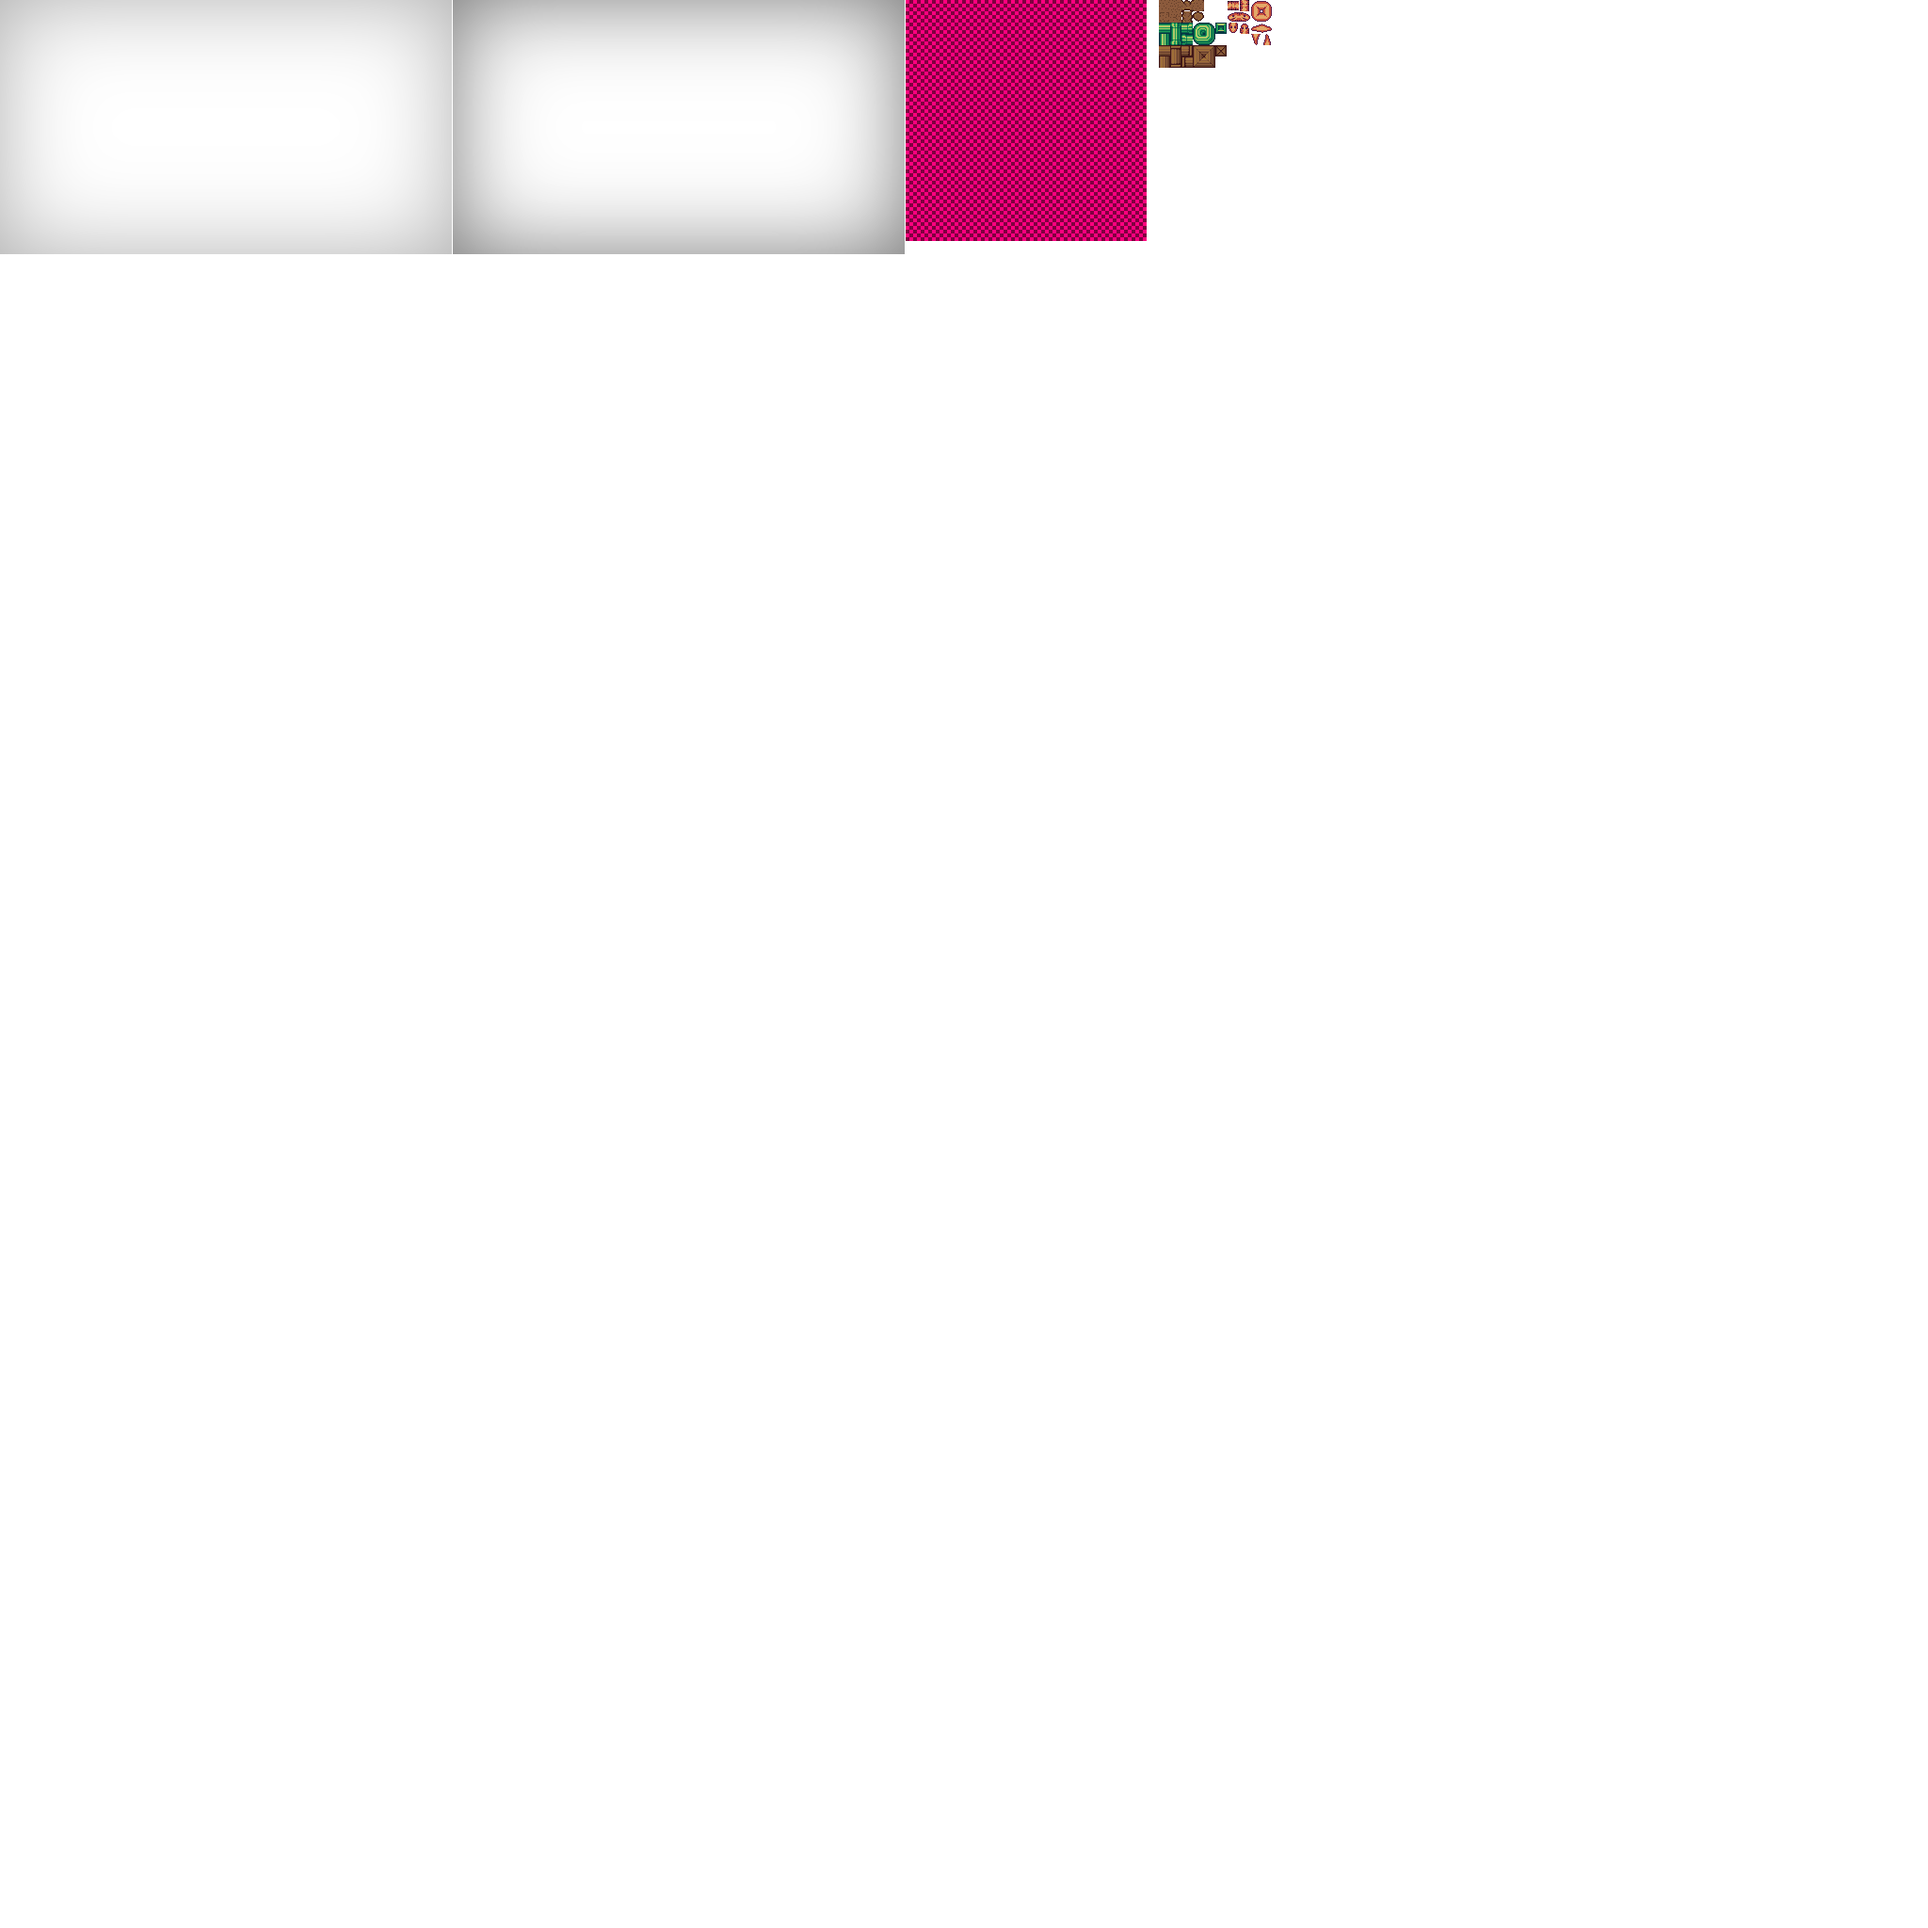
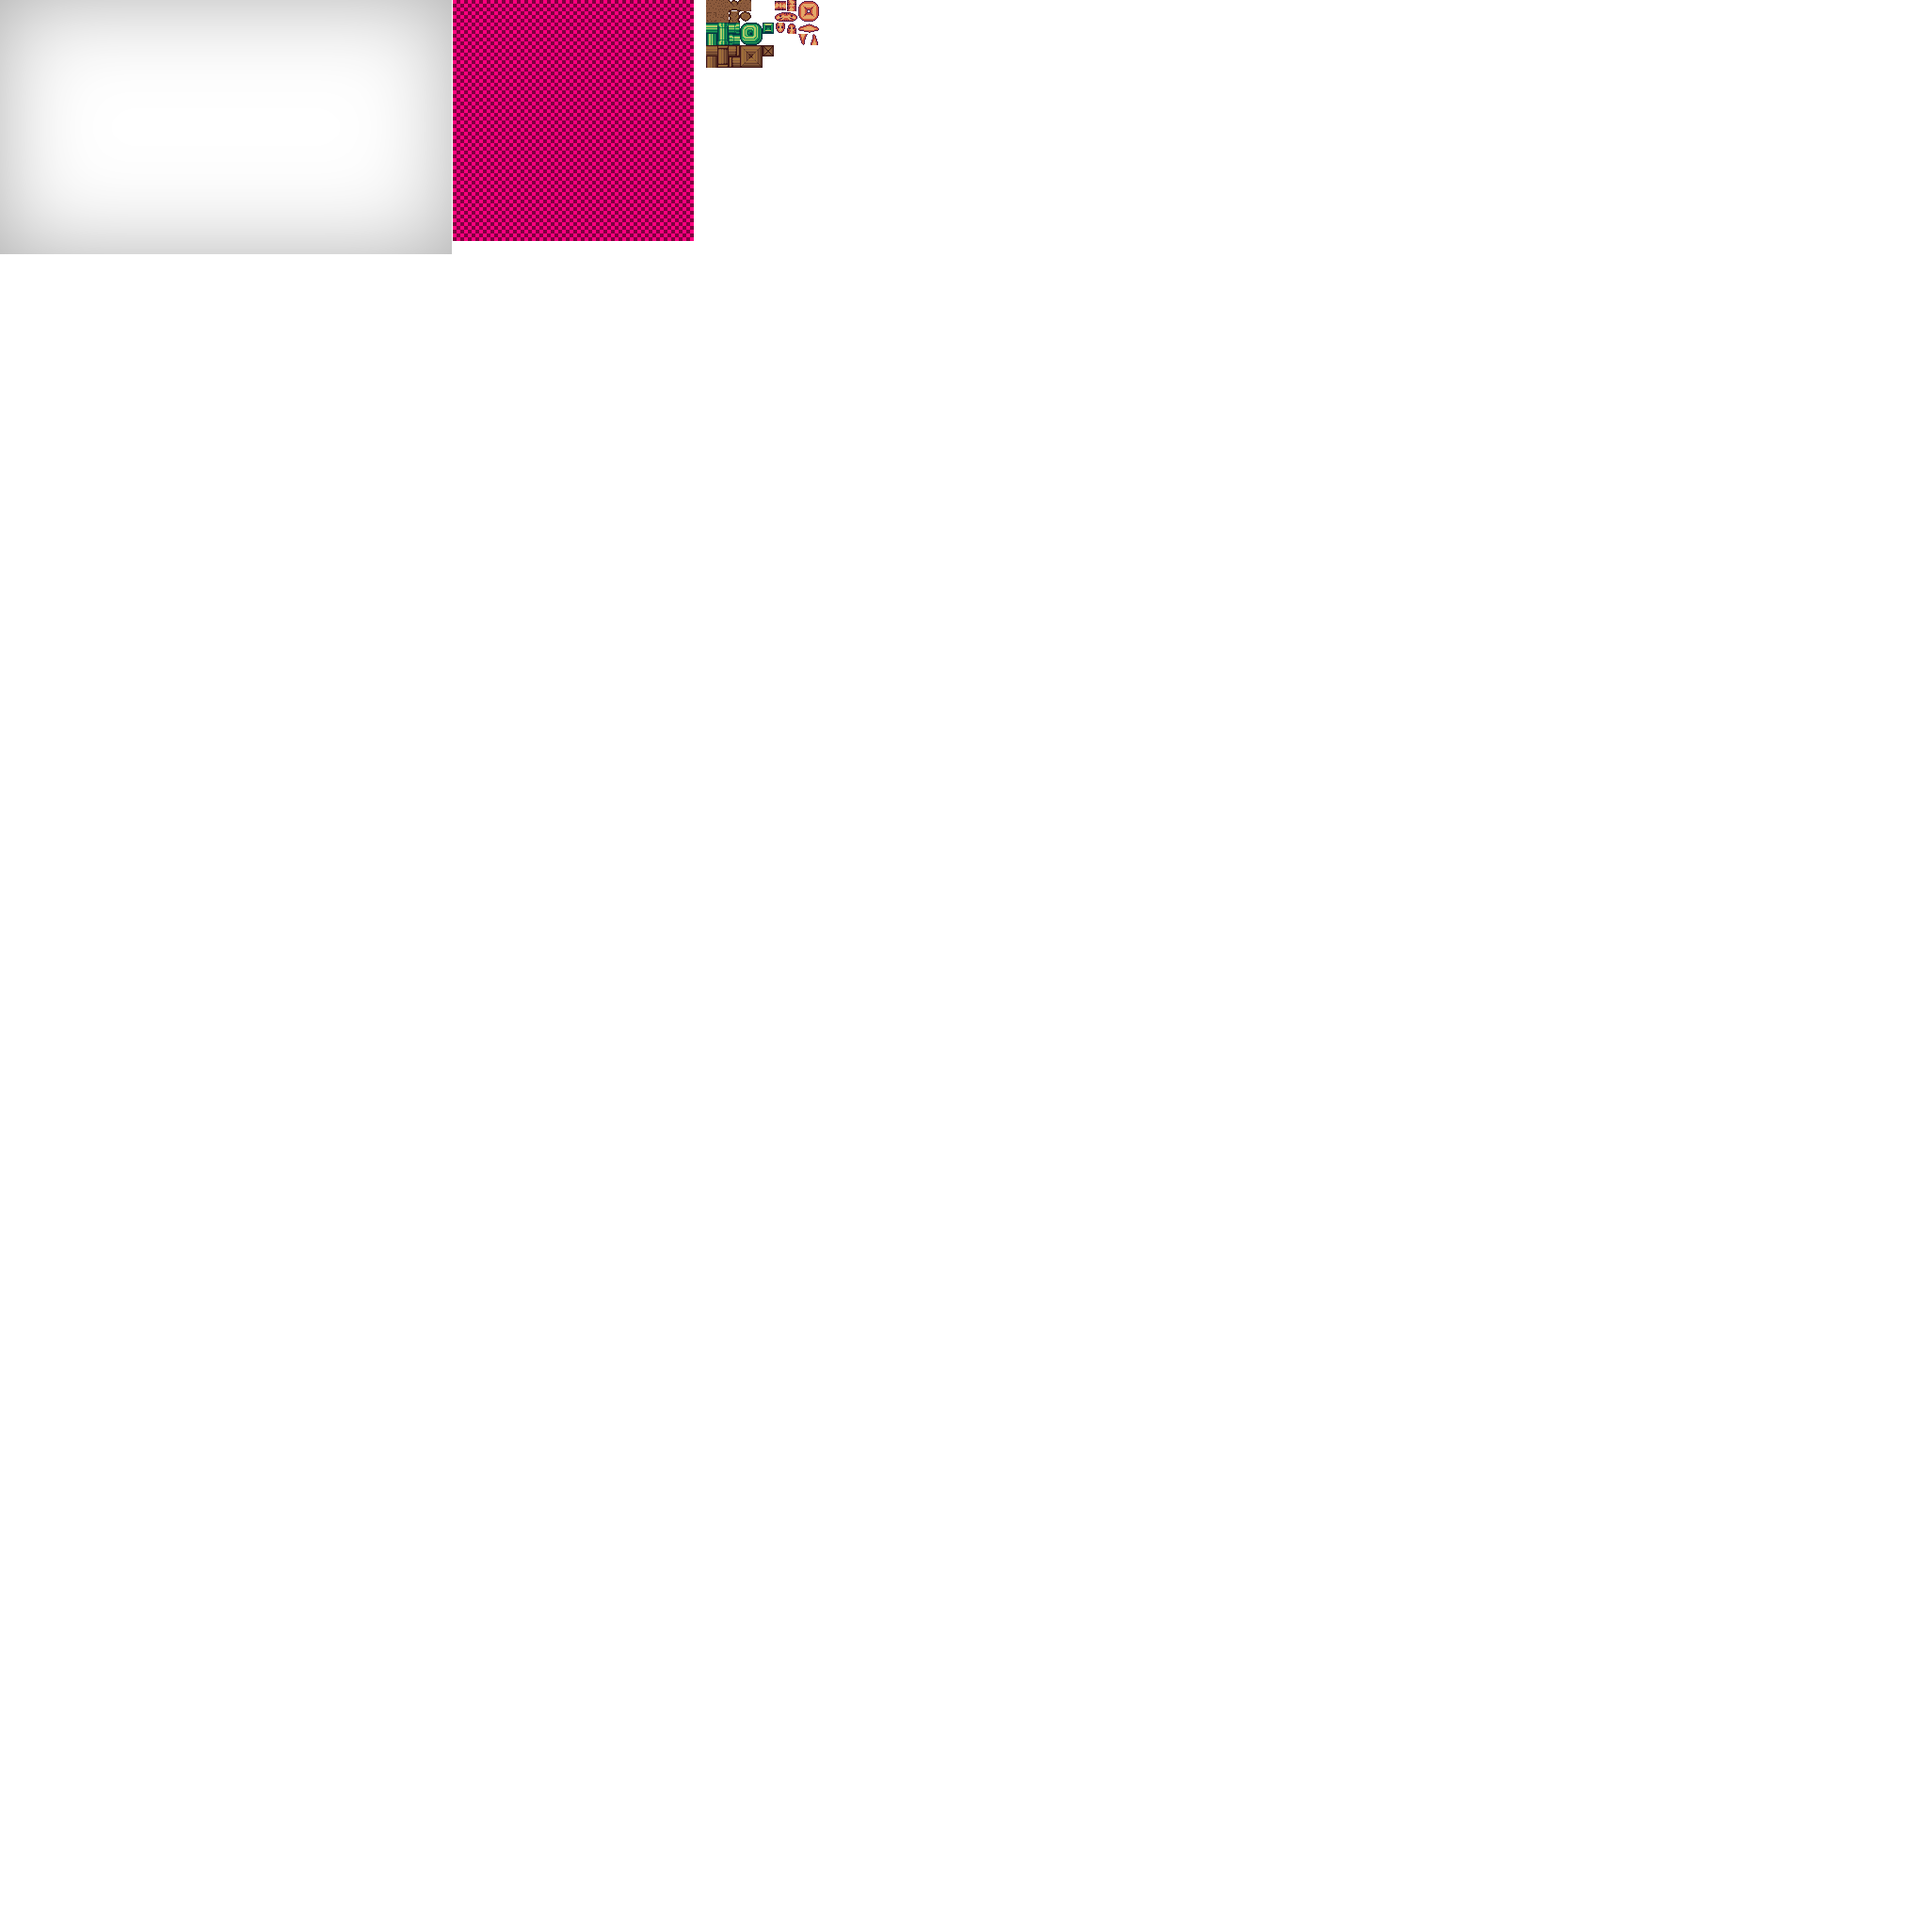
Better fall, also fade in/out.

Changed region(s): [[0.2188, 0.0, 0.6562, 0.1562]]

diff --git a/src/game/state_game.cpp b/src/game/state_game.cpp
@@ -58,6 +58,7 @@ namespace Sounds
         } \
 
     ADD_SOUND(dirt_breaks, 0.5)
+    ADD_SOUND(landing, 0.2)
 
     #undef ADD_SOUND
 }
@@ -183,26 +184,44 @@ struct ParticleController
             pa.Draw(viewport_center, viewport_size);
     }
 
+    static Particle ParticleDirt(fvec2 pos, fvec2 vel, float min_size, float max_size, int max_time )
+    {
+        float p = 0 <= randomize.real() <= 1;
+        return adjust(Particle{}
+            , pos = pos
+            , vel = vel
+            , acc = fvec2(0,0.05)
+            , max_time = max_time
+            , damp = mix(p, 0.01, 0.03)
+            , p.size = mix(p, max_size, min_size)
+            , p.color = (std::array{fvec3(139, 90, 60) / 255, fvec3(101, 62, 41) / 255, fvec3(159, 111, 56) / 255}[randomize.integer() < 3] * float(0.9 <= randomize.real() <= 1.1))
+            , p1 = _object_.p
+            , p1->t = _object_.max_time
+            , p1->size = 0
+        );
+    }
+
     void EffectDirtDestroyed(fvec2 center_pos, fvec2 area, int n = 15)
     {
         while (n-- > 0)
         {
-            float p = 0 <= randomize.real() <= 1;
+            particles.push_back(ParticleDirt(
+                center_pos + fvec2(-area.x/2 <= randomize.real() <= area.x/2, -area.y/2 <= randomize.real() <= area.y/2),
+                fvec2::dir(randomize.angle(), 0 <= randomize.real() <= 1),
+                2, 8, 30 <= randomize.integer() <= 60)
+            );
+        }
+    }
 
-            particles.push_back(adjust(Particle{}
-                , pos = center_pos + fvec2(-area.x/2 <= randomize.real() <= area.x/2, -area.y/2 <= randomize.real() <= area.y/2)
-                , vel = fvec2::dir(randomize.angle(), 0 <= randomize.real() <= 1)
-                , acc = fvec2(0,0.05)
-                , max_time = 30 <= randomize.integer() <= 60
-                , damp = mix(p, 0.01, 0.03)
-                , p.size = mix(p, 8, 2)
-                , p.color = (std::array{fvec3(139, 90, 60) / 255, fvec3(101, 62, 41) / 255, fvec3(159, 111, 56) / 255}[randomize.integer() < 3] * float(0.9 <= randomize.real() <= 1.1))
-                // , p2 = _object_.p
-                // , p2->t = _object_.max_time / 2
-                , p1 = _object_.p
-                , p1->t = _object_.max_time
-                , p1->size = 0
-            ));
+    void EffectDirtMinor(fvec2 center_pos, fvec2 area, int n)
+    {
+        while (n-- > 0)
+        {
+            particles.push_back(ParticleDirt(
+                center_pos + fvec2(-area.x/2 <= randomize.real() <= area.x/2, -area.y/2 <= randomize.real() <= area.y/2),
+                fvec2::dir(randomize.angle(), 0 <= randomize.real() <= 1),
+                2, 6, 20 <= randomize.integer() <= 40)
+            );
         }
     }
 };
@@ -215,6 +234,10 @@ namespace MapPoints
         ivec2 worm_starting_pos{};
         ivec2 worm_starting_dir{};
         int worm_starting_len = 4;
+
+        bool exit_placed = false;
+        ivec2 exit_pos{};
+        ivec2 exit_dir{};
     };
 
     STRUCT( Base POLYMORPHIC )
@@ -237,6 +260,22 @@ namespace MapPoints
             state.worm_starting_pos = tile_pos;
             state.worm_starting_dir = dir;
             state.worm_starting_len = len;
+        }
+    };
+
+    STRUCT( Exit EXTENDS Base )
+    {
+        MEMBERS(
+            DECL(ivec2) dir
+        )
+
+        void Process(State &state, ivec2 tile_pos) override
+        {
+            if (state.worm_placed)
+                Program::Error("More than one exit.");
+            state.exit_placed = true;
+            state.exit_pos = tile_pos;
+            state.exit_dir = dir;
         }
     };
 }
@@ -508,7 +547,9 @@ struct Worm
 {
     std::vector<ivec2> segments; // This is sorted tail-to-head.
     int crawl_offset = 0;
-    int fall_offset = 0;
+    float fall_offset = 0;
+    float fall_speed = 0;
+    bool dead = false;
 
     ivec2 ChooseDirection(const Map &map) const
     {
@@ -520,39 +561,16 @@ struct Worm
         if (!current_dir)
             current_dir = map.data.worm_starting_dir;
 
-        struct Priority
+        auto GetPathPriority = [&](ivec2 tile_pos) -> int
         {
-            bool valid = true;
-            bool has_support = true;
-            int tile_priority = 0;
-            auto operator<=>(const Priority &) const = default;
-        };
-        auto GetPathPriority = [&](ivec2 tile_pos) -> Priority
-        {
-            Priority ret;
+            int ret = 0;
 
             if (std::find(segments.begin(), segments.end(), tile_pos) != segments.end())
-                ret.tile_priority = 0;
+                ret = 0; // Refuse to touch your own body.
+            else if (tile_pos == map.data.exit_pos && tile_pos - segments.back() == -map.data.exit_dir)
+                ret = 98; // Go the exit if possible.
             else
-                ret.tile_priority = map.InfoAt(tile_pos).path_priority;
-
-            ret.valid = ret.tile_priority > 0;
-
-            auto TileHasSupport = [&](ivec2 pos)
-            {
-                return map.InfoAt(pos with(y++)).path_priority < 99;
-            };
-
-            ret.has_support = TileHasSupport(tile_pos);
-            for (size_t i = 1/*sic*/; i < segments.size(); i++)
-            {
-                if (TileHasSupport(segments[i]))
-                {
-                    ret.has_support = true;
-                    break;
-                }
-            }
-            ret.has_support = ret.has_support || TileHasSupport(tile_pos);
+                ret = map.InfoAt(tile_pos).path_priority;
 
             return ret;
         };
@@ -564,11 +582,11 @@ struct Worm
         // Refuse to go up without any support.
 
         // Stop if nowhere to go.
-        if (!max(p_fwd, p_left, p_right).valid)
+        if (max(p_fwd, p_left, p_right) <= 0)
             return ivec2();
 
         // If the current dir is at least as good as the alternatives, keep it.
-        if (p_fwd >= p_left && p_fwd >= p_right && (p_fwd.has_support || current_dir != ivec2(0,-1)))
+        if (p_fwd >= p_left && p_fwd >= p_right)
             return current_dir;
 
         // Pick the best of the two directions.
@@ -581,21 +599,59 @@ struct Worm
     void Tick(Map &map, ParticleController &par)
     {
         bool on_ground = false;
-        for (ivec2 seg : segments)
-        {
-            if (map.InfoAt(seg with(y++)).path_priority < 99)
+        std::vector<unsigned char> supported_segments(segments.size());
+        { // Check if the worm is supported by the ground.
+            std::optional<ivec2> prev_delta, next_delta;
+            for (size_t i = 0; i < segments.size(); i++) LOOP_NAME(ground)
             {
-                on_ground = true;
-                break;
+                if (map.InfoAt(segments[i] with(y++)).path_priority < 99)
+                {
+                    on_ground = true;
+                    supported_segments[i] = true;
+                    continue;
+                }
+
+                prev_delta = next_delta;
+                next_delta = i == segments.size() - 1 ? std::nullopt : std::optional{segments[i+1] - segments[i]};
+
+                for (std::optional<ivec2> *delta_ptr : {&prev_delta, &next_delta})
+                {
+                    if (!*delta_ptr)
+                        continue;
+                    for (int s : {-1, 1})
+                    {
+                        ivec2 offset = (*delta_ptr)->rot90(s);
+                        if (offset != ivec2(0,-1) && map.InfoAt(segments[i] + offset).path_priority < 99)
+                        {
+                            on_ground = true;
+                            supported_segments[i] = true;
+                            break;
+                        }
+                    }
+                    if (supported_segments[i])
+                        break;
+                }
             }
         }
+
         if (on_ground)
         {
+            if (fall_speed > 0.8)
+            {
+                Sounds::landing(0.2);
+                for (size_t i = 0; i < segments.size(); i++)
+                {
+                    if (supported_segments[i])
+                        par.EffectDirtMinor(segments[i] * tile_size + ivec2(tile_size / 2, tile_size), fvec2(tile_size, 0), 4);
+                }
+            }
             fall_offset = 0;
+            fall_speed = 0;
         }
         else
         {
-            fall_offset++;
+            clamp_var_max(fall_speed += 0.02, 1);
+            fall_offset += fall_speed;
             if (fall_offset >= tile_size)
             {
                 fall_offset = 0;
@@ -615,11 +671,13 @@ struct Worm
                 bool ok = true;
                 if (crawl_offset >= tile_size / 2 - 3)
                 {
-                    ivec2 chosen_dir = ChooseDirection(map);
-                    if (chosen_dir)
+                    bool at_exit = map.data.exit_pos == segments.back();
+                    ivec2 chosen_dir = at_exit ? ivec2() : ChooseDirection(map);
+
+                    if (chosen_dir || at_exit)
                     {
                         crawl_offset -= tile_size;
-                        segments.front() = segments.back() + ChooseDirection(map);
+                        segments.front() = segments.back() + chosen_dir;
                         std::rotate(segments.begin(), segments.begin() + 1, segments.end());
 
                         { // Destroy tiles.
@@ -758,6 +816,25 @@ struct World
     int speed_factor = 2;
     ivec2 camera_pos;
 
+    float fade_in = 1;
+    float fade_out = 0;
+
+    bool ShouldFadeOut() const
+    {
+        if (worm.dead)
+            return true; // Death.
+        if (!worm.segments.empty() && worm.segments.front() == map.data.exit_pos)
+            return true; // Win condition.
+        return false;
+    }
+
+    std::optional<int> ShouldChangeLevel()
+    {
+        if (ShouldFadeOut() && fade_out >= 1)
+            return worm.dead ? map.level_index : map.level_index + 1;
+        return {};
+    }
+
     void Tick()
     {
         // The logic affected by game speed.
@@ -785,11 +862,20 @@ struct World
         // Particles.
         par.Tick();
 
-        if (Controls::PausePressed())
-            running = !running;
+        { // Gui.
+            if (Controls::PausePressed())
+                running = !running;
 
-        if (Controls::ToggleSpeedPressed())
-            speed_factor = speed_factor > 1 ? 1 : 2;
+            if (Controls::ToggleSpeedPressed())
+                speed_factor = speed_factor > 1 ? 1 : 2;
+        }
+
+        { // Fade.
+            clamp_var_min(fade_in -= 0.035f);
+
+            if (ShouldFadeOut())
+                clamp_var_max(fade_out += 0.035f);
+        }
     }
 
     void Render() const
@@ -799,6 +885,10 @@ struct World
         par.Render(camera_pos, screen_size);
 
         r.itext(-screen_size/2, Graphics::Text(Fonts::main, FMT("{}, speed={}", running ? "Running" : "Paused", speed_factor))).align(ivec2(-1));
+
+        // Fade.
+        if (float fade = max(fade_in, fade_out); fade > 0)
+            r.iquad(ivec2(0), screen_size).center().color(fvec3(0)).alpha(fade);
 
         // Vignette.
         r.iquad(ivec2(0), atlas.vignette).center();
@@ -816,7 +906,8 @@ namespace States
 
         void LoadMap(int index)
         {
-            map_backup = Map(index);
+            if (map_backup.level_index != index)
+                map_backup = Map(index);
             ReloadCurrentMap();
         }
 
@@ -845,6 +936,9 @@ namespace States
             (void)next_state;
 
             w.Tick();
+
+            if (auto next_level = w.ShouldChangeLevel())
+                LoadMap(*next_level);
         }
 
         void Render() const override

diff --git a/src/game/main.cpp b/src/game/main.cpp
@@ -9,7 +9,7 @@ static Audio::Context context = nullptr;
 Audio::SourceManager audio_manager;
 
 Graphics::ShaderConfig shader_config = Graphics::ShaderConfig::Core();
-static Interface::ImGuiController gui_controller(Poly::derived<Interface::ImGuiController::GraphicsBackend_Modern>, adjust_(Interface::ImGuiController::Config{}, shader_header = shader_config.common_header));
+static Interface::ImGuiController gui_controller(Poly::derived<Interface::ImGuiController::GraphicsBackend_Modern>, adjust_(Interface::ImGuiController::Config{}, shader_header = shader_config.common_header, store_state_in_file = ""));
 
 namespace Fonts
 {
